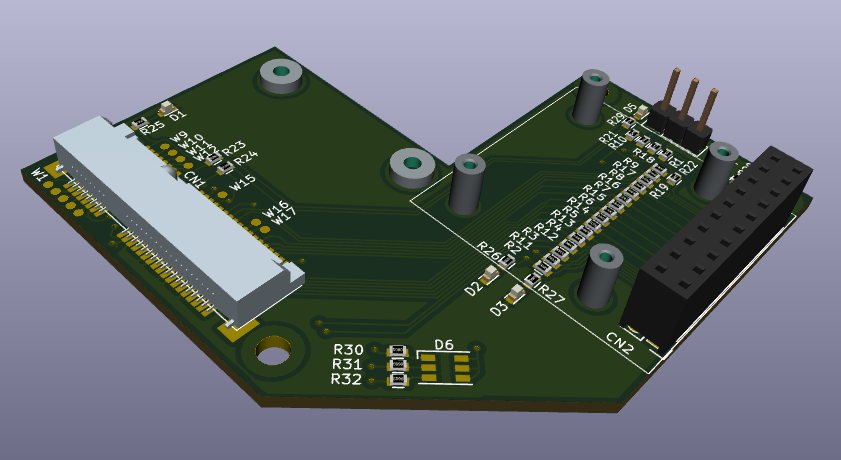
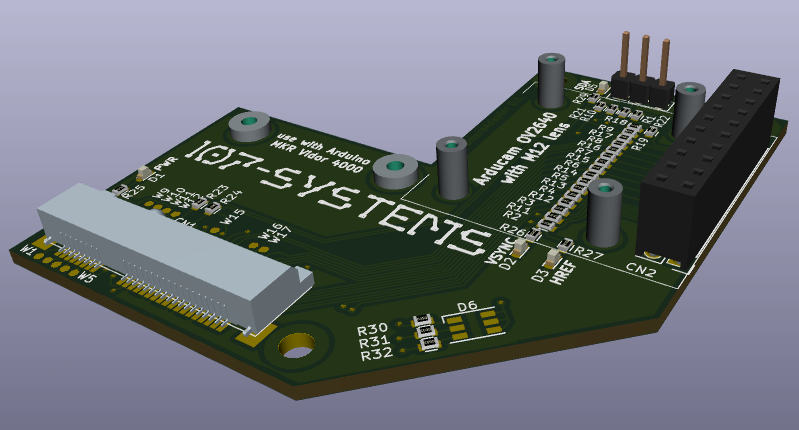
updated images

diff --git a/README.md b/README.md
@@ -9,3 +9,7 @@ adapter to connect a OV2640 camera to the Mini PCIe connector of the Arduino MKR
 
 ![vidorcameraadapter PCB top](docs/images/vidorcameraadapter_top.png)
 
+### Bot
+
+![vidorcameraadapter PCB bot](docs/images/vidorcameraadapter_bot.png)
+
